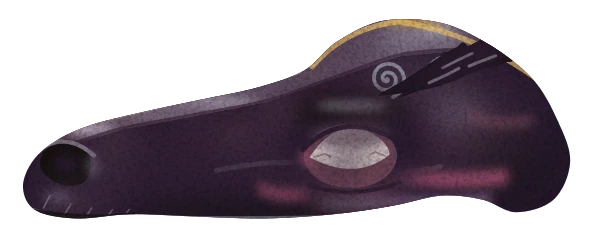
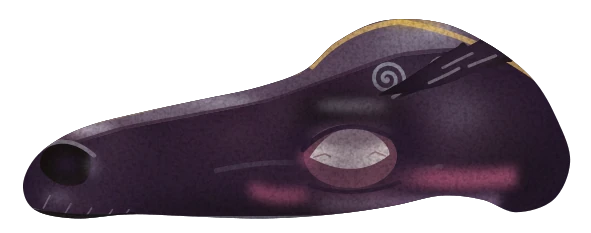
El Morta: las rayas de murga más firmes, el ojo menos tapado y el pescuezo que se funde con el pecho

diff --git a/src/lib/bestiario/arte-morta.ts b/src/lib/bestiario/arte-morta.ts
@@ -167,7 +167,7 @@ function pelo(id: string, mechones: readonly Mechon[], luz: (p: P) => number, br
   for (const m of mechones) {
     const k = luz(m.eje[0]!);
     const lomo = curva(m.eje.slice(0, 6), false);
-    adentro += pasada(lomo, M.hondo, m.ancho * 0.7, 's', 0.9) + pasada(curva(m.eje.slice(0, 4), false), M.piel, m.ancho * 0.35, 's', 0.2 + k * 0.6);
+    adentro += pasada(lomo, M.hondo, m.ancho * 0.7, 's', 0.9) + pasada(curva(m.eje.slice(0, 4), false), k > 0.45 ? M.media : M.piel, m.ancho * 0.35, 's', 0.2 + k * 0.6);
   }
   // Los brillos del mojado: hilos que siguen el mechón, solo en los que agarran la luz.
   for (const [i, m] of mechones.entries()) {
@@ -288,10 +288,9 @@ function cabeza(): string {
   const raya = (y0: number, x0: number, x1: number, ancho: number, tinta: string, o: number): string =>
     soplo(`M${f(x0)} ${f(y0)} Q${f((x0 + x1) / 2)} ${f(y0 + 3)} ${f(x1)} ${f(y0 + 1)} L${f(x1)} ${f(y0 + 1 + ancho)} Q${f((x0 + x1) / 2)} ${f(y0 + 3 + ancho)} ${f(x0)} ${f(y0 + ancho)} Z`, tinta, 'xs', o);
   const murga =
-    raya(1.5, -36, -4, 3.8, M.pinturaViva, 0.95) +
-    raya(7.4, -40, -8, 3, M.violeta, 0.9) +
-    raya(5.5, -64, -52, 3, M.pinturaViva, 0.8) +
-    raya(-11.5, -14, 2, 2.4, M.pintura, 0.7);
+    raya(1, -34, -2, 4.6, M.pinturaViva, 1) +
+    raya(7.6, -38, -6, 3.4, M.violeta, 1) +
+    raya(5.5, -66, -52, 3.4, M.pinturaViva, 0.9);
   // Los espirales de plata de la frente de la cara del interior, un poco borroneados.
   const espirales =
     trazo(espiral(-33, -19, 4.6), M.plata, 0.9, 0.6) +
@@ -410,8 +409,8 @@ function pescuezo(): string {
     nube(-46, -300, 3, 30, M.hondo, 'm', 0.6) +
     // El canto de la garganta, que agarra los focos.
     trazo('M-47 -292 Q-48.6 -312 -43 -333', M.foco, 1, 0.45) +
-    // Abajo, donde se junta con los hombros de tipo: se hunde.
-    nube(-4, -263, 36, 6, M.negro, 'm', 0.6) +
+    // Abajo, donde se junta con los hombros de tipo: se funde con el pecho, que está en lo hondo.
+    nube(-2, -262, 44, 9, M.hondo, 'm', 0.95) +
     manchas(rnd, 14, [-44, -350, 74, 86], (p) => (p[0] < -8 ? 0.6 : 0.1));
   return conRociado(enmascarado('m-morta-pescuezo', sil, adentro) + crin);
 }
@@ -790,7 +789,7 @@ function ojo(t: Readonly<Record<string, string>>): string {
   const [cx, cy] = CL.ojo.centro;
   const [rx, ry] = CL.ojo.radio;
   const [px, py] = PIVOTE_PARPADO;
-  const ri = ry * 0.9;
+  const ri = ry * 1.02;
   return (
     // La pupila se recorta en el blanco: mire adonde mire, no se sale del ojo.
     `<clipPath id="m-morta-blanco"><ellipse cx="${cx}" cy="${f(cy + 0.3)}" rx="${rx}" ry="${f(ry + 0.2)}"/></clipPath>` +

diff --git a/src/lib/bestiario/rig-morta.ts b/src/lib/bestiario/rig-morta.ts
@@ -132,7 +132,7 @@ export const DOBLA: readonly [Punto, Punto] = [[-1, 0.15], [1, 0]];
 export const POSES: Readonly<Record<'de-pie' | 'relincha', Pose>> = {
   'de-pie': {
     escora: -4, salto: 0, torso: -1.5, respira: 0, cuello: 0, cabeza: 0, quijada: 0, orejas: -8, toallon: 0,
-    manos: MANOS_QUIETAS, patas: [0, 0], cola: 0, mira: [0.35, 0.1], parpado: 0.42,
+    manos: MANOS_QUIETAS, patas: [0, 0], cola: 0, mira: [0.3, 0.15], parpado: 0.34,
   },
   relincha: {
     escora: -7, salto: 0, torso: 3, respira: 1, cuello: 14, cabeza: 34, quijada: 1, orejas: -30, toallon: 3,
